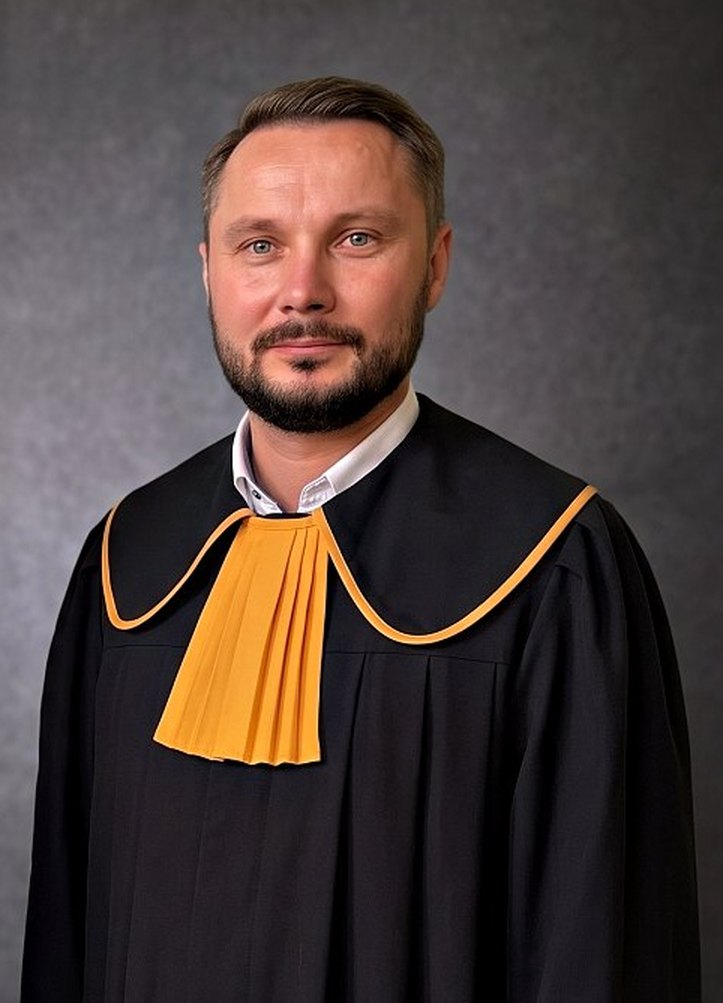
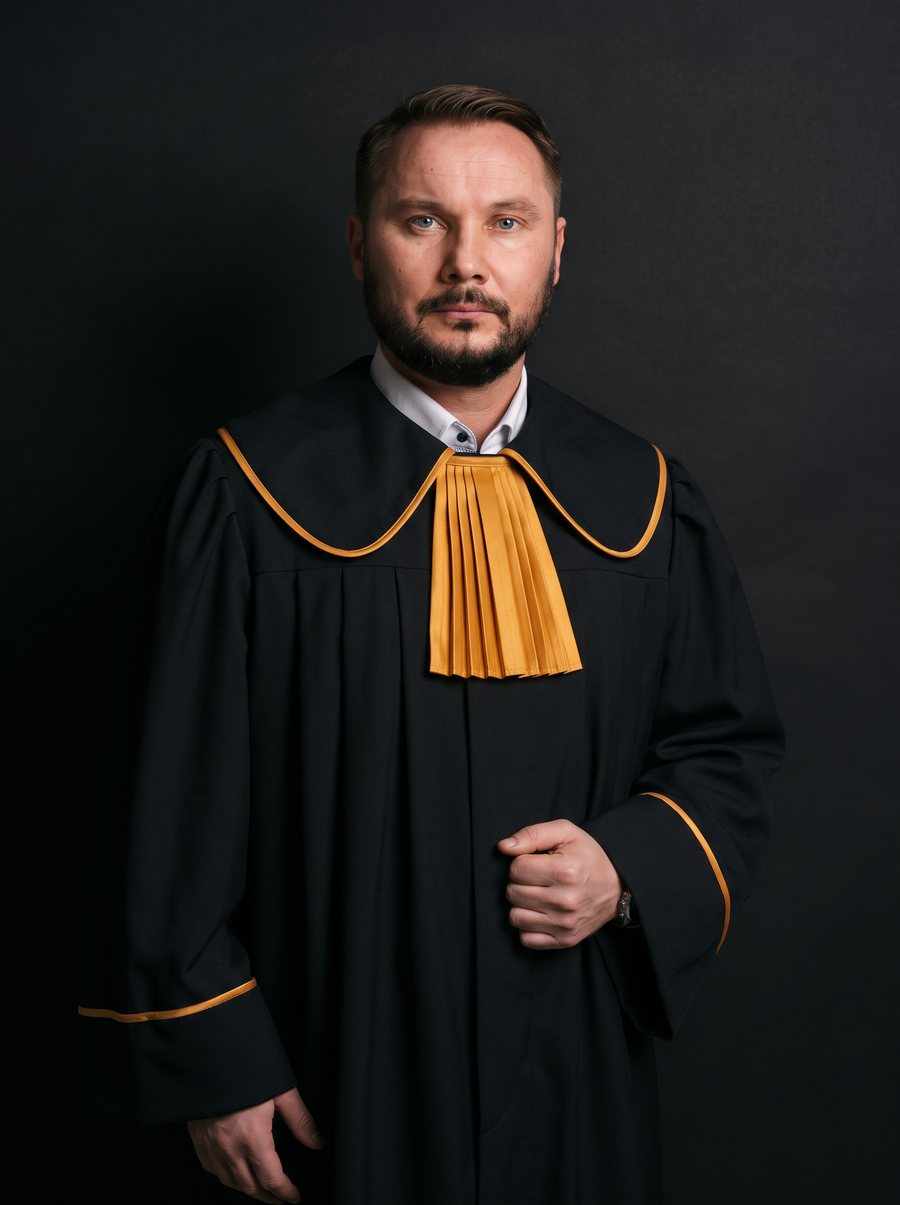
Zespół: przywrócone pierwotne zdjęcie Marcina w todze
Claude-Session: https://claude.ai/code/session_01P3FunjzXZg2xqPaovLAGa3

diff --git a/index.html b/index.html
@@ -888,7 +888,7 @@ a.spec h3{color:var(--bg)}
       </div>
     </div>
     <div class="team-card team-card-rev">
-      <picture><source srcset="/img/marcin-zespol.webp" type="image/webp"><img class="team-photo" src="/img/marcin-zespol.jpg" alt="Marcin Otręba, doradca podatkowy, Wrocław" width="723" height="1003" loading="lazy"></picture>
+      <picture><source srcset="/img/marcin-zespol.webp" type="image/webp"><img class="team-photo" src="/img/marcin-zespol.jpg" alt="Marcin Otręba, doradca podatkowy, Wrocław" width="900" height="1205" loading="lazy"></picture>
       <div class="team-body">
         <span class="advisor-role">Doradca Podatkowy · Partner Zarządzający</span>
         <h3 class="team-name">Marcin Otręba</h3>

diff --git a/zespol/index.html b/zespol/index.html
@@ -68,7 +68,7 @@
       </div>
     </div>
     <div class="team-card team-card-rev">
-      <picture><source srcset="/img/marcin-zespol.webp" type="image/webp"><img class="team-photo" src="/img/marcin-zespol.jpg" alt="Marcin Otręba, doradca podatkowy, Wrocław" width="723" height="1003" loading="lazy"></picture>
+      <picture><source srcset="/img/marcin-zespol.webp" type="image/webp"><img class="team-photo" src="/img/marcin-zespol.jpg" alt="Marcin Otręba, doradca podatkowy, Wrocław" width="900" height="1205" loading="lazy"></picture>
       <div class="team-body">
         <span class="advisor-role">Doradca Podatkowy · Partner Zarządzający</span>
         <h3 class="team-name">Marcin Otręba</h3>
